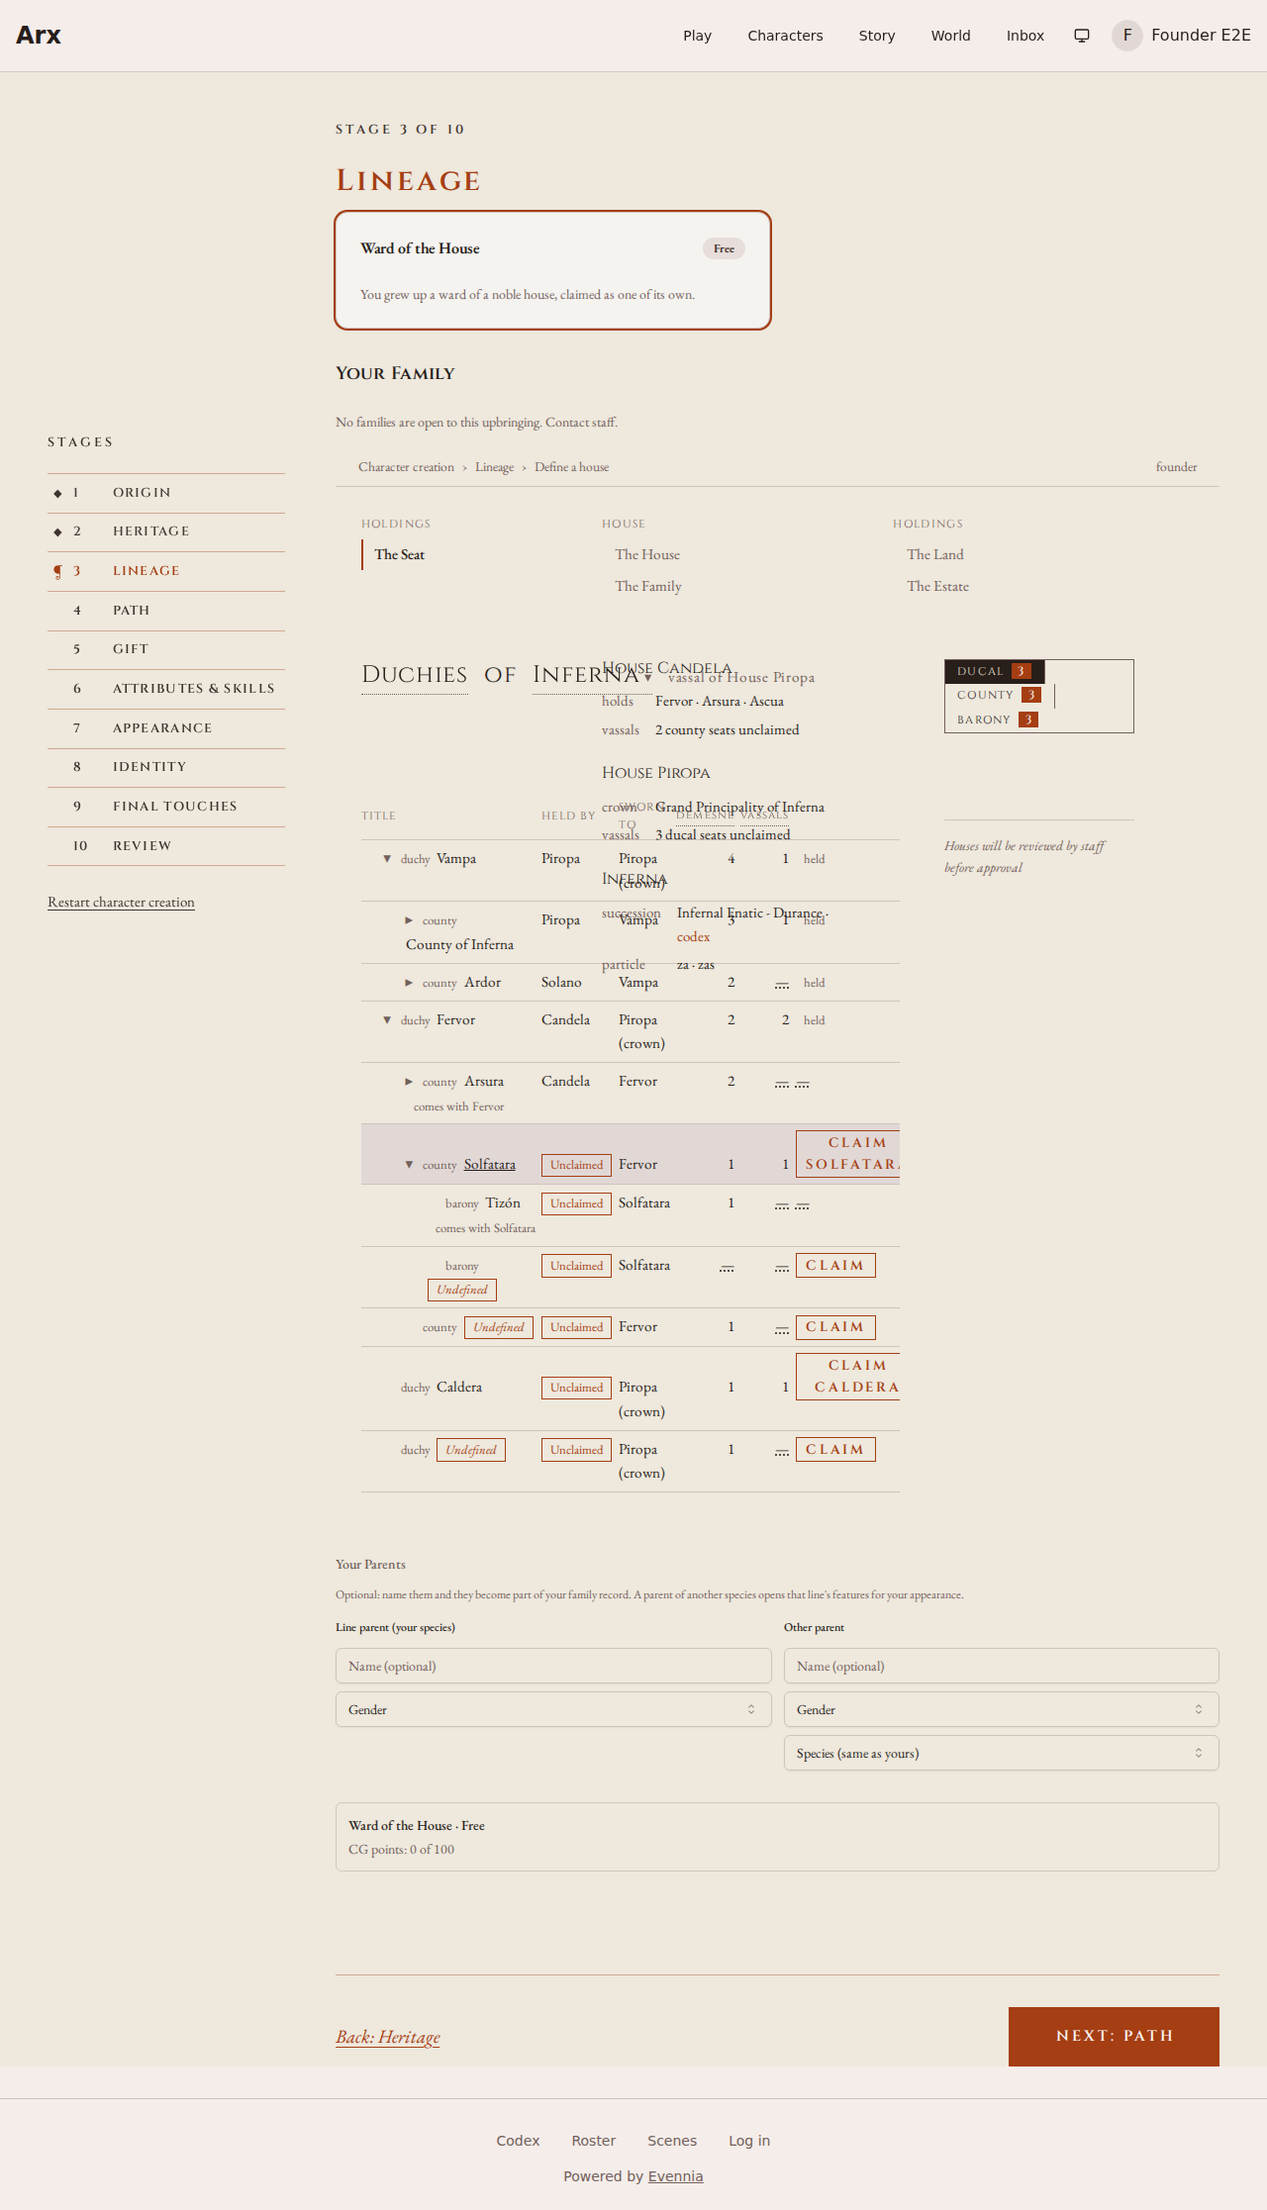
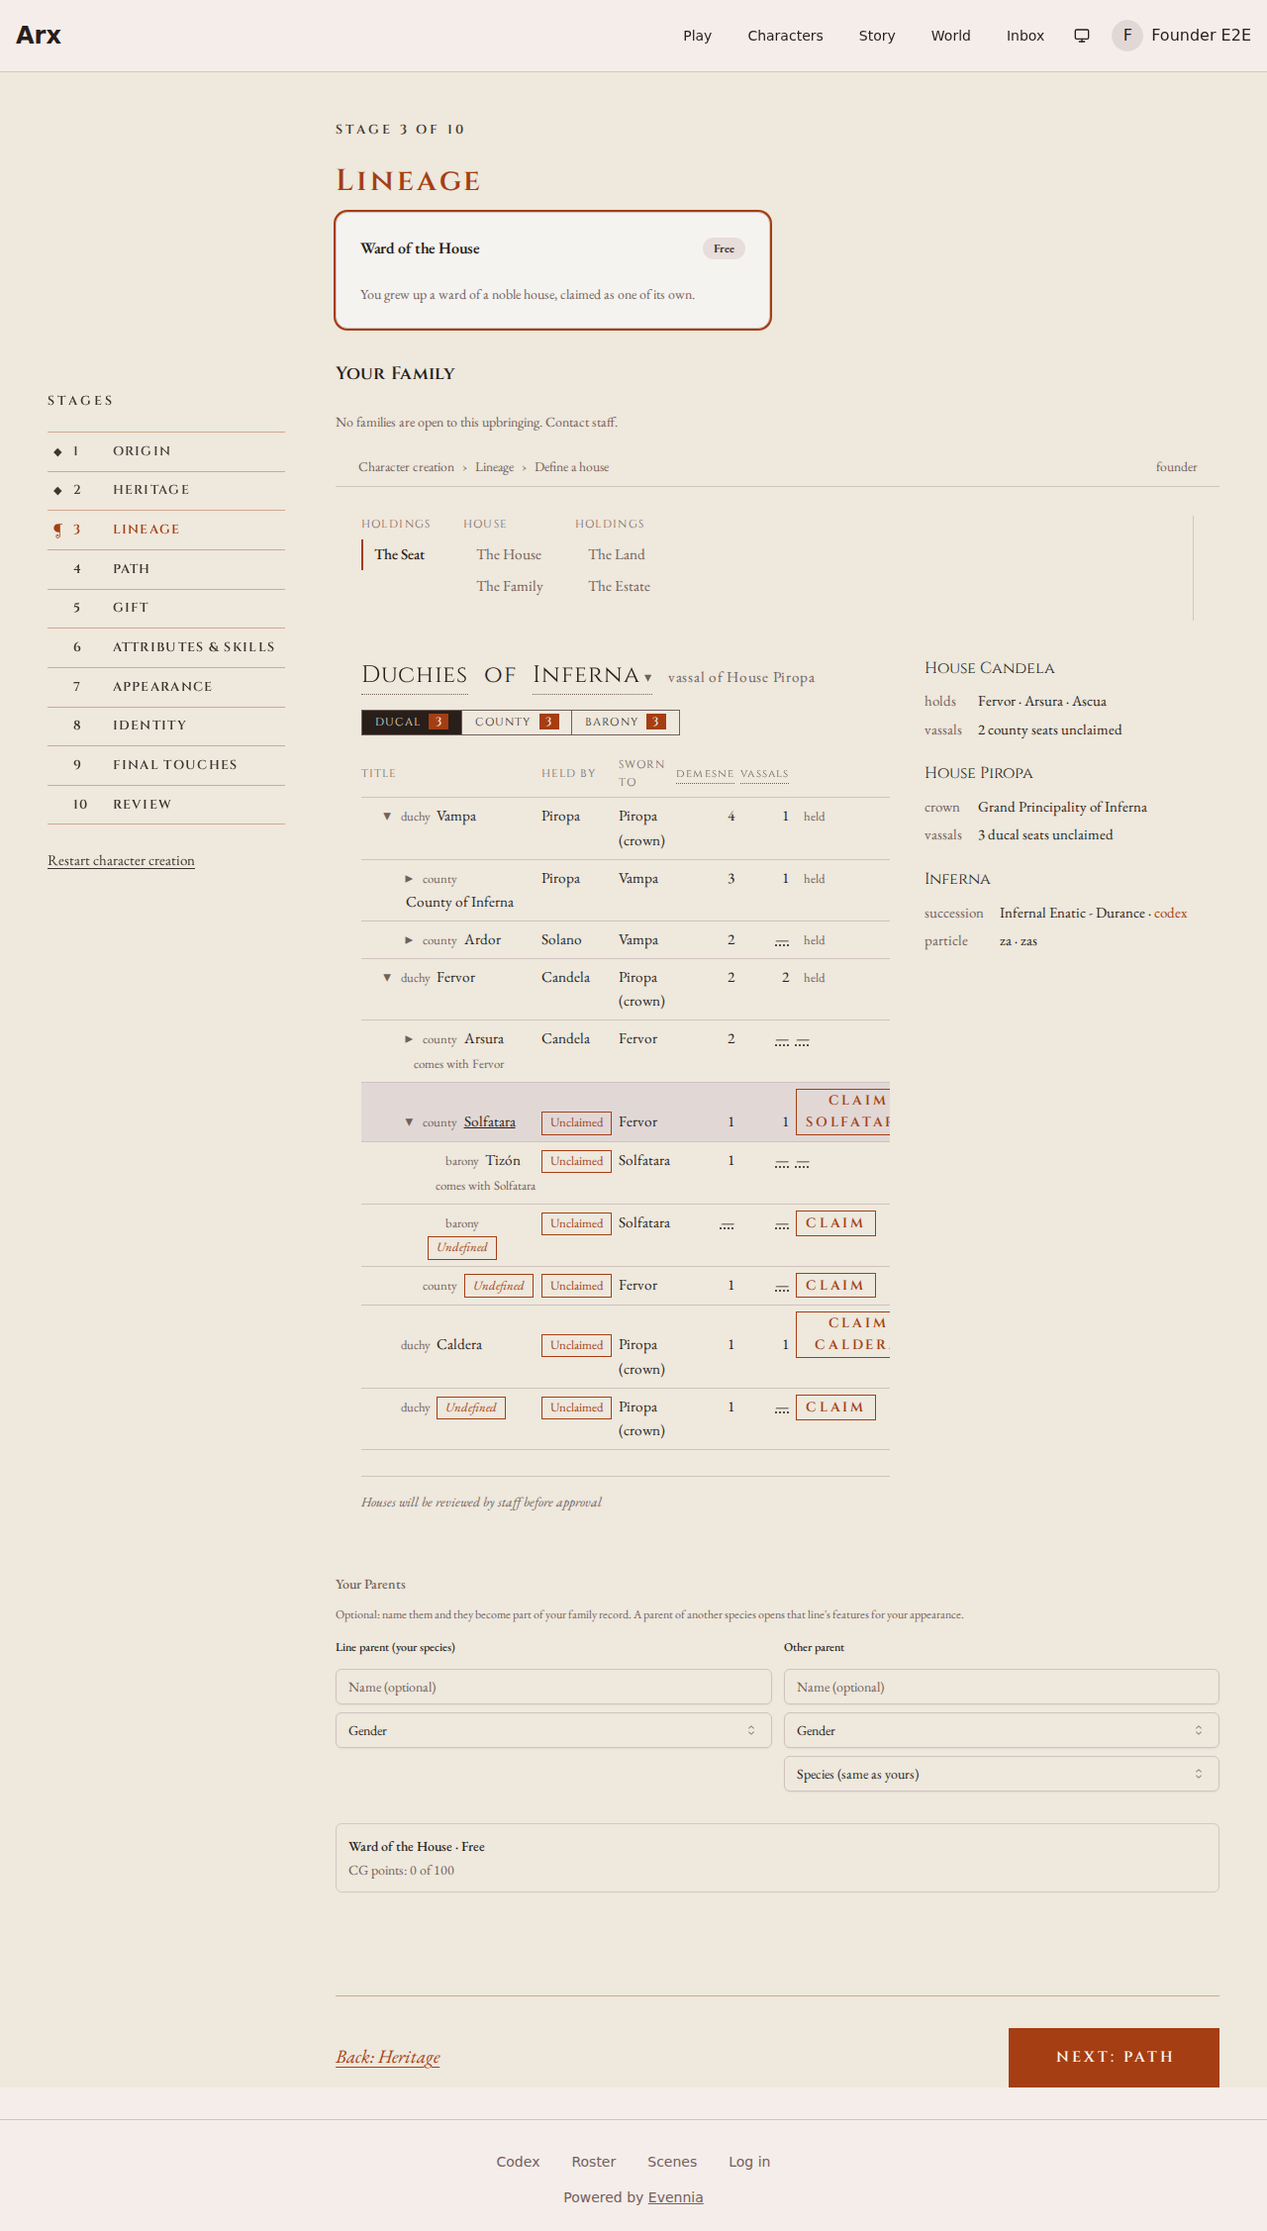
Review evidence: Almanach screens re-rendered with real clicks after the founder fixes (#3983)

diff --git a/frontend/e2e/evidence/almanach-3983.spec.ts b/frontend/e2e/evidence/almanach-3983.spec.ts
@@ -6,7 +6,6 @@ import { test, expect, type Locator, type Page } from '@playwright/test';
 import {
   ALL_HOUSES,
   CHARTER,
-  FERVOR,
   GENDERS,
   LAND_SHAPES,
   PIROPA_HOUSE_ID,
@@ -15,7 +14,7 @@ import {
   buildLadderRows,
   buildPiropaDocument,
 } from './fixtures/inferna';
-import { CLAIMABLE_TITLES, DRAFT_ID, FERVOR_TEMPLATE_ID, buildDraft } from './fixtures/founder';
+import { CLAIMABLE_TITLES, DRAFT_ID, buildDraft } from './fixtures/founder';
 
 /**
  * Review evidence for the Almanach de Catenys (#3983): renders every
@@ -94,26 +93,16 @@ async function assertSavebarNote(page: Page, note: string): Promise<void> {
 }
 
 /**
- * App finding (see README "Findings for the reviewer"): the founder-
- * mounted Almanach's `.almanac` grid column carrying `main.chapter`
- * measures narrower than its content at 1280px, so `aside.record` (or one
- * of its `<li>`s) sits on top of controls near the chapter's own trailing
- * edge — confirmed on `SeatPicker`'s Claim column (F-I/F-II) and
- * `FamilyChapter`'s "add" doors (F-III onward). A normal `click()` still
- * works wherever nothing overlaps; only where it doesn't does this fall
- * back to `dispatchEvent('click')` (fires the DOM click directly on the
- * target, no coordinate hit-testing) so the founder journey's own
- * interactions can still be exercised and the screens past the overlap
- * captured, per instruction: don't fix the app, record and continue.
+ * Every interaction in the founder journey is a real pointer click with
+ * Playwright's actionability checks. The first evidence run found two app
+ * defects here (the spread overflowing into the record rail, and a claim that
+ * lost its title and realm); both were fixed in 0b43bf647, and this harness
+ * no longer works around either.
  */
 async function safeClick(locator: Locator): Promise<void> {
-  // A real `click()` attempt that fails partway (mousedown lands on the
-  // overlapping `aside.record`, per the finding above) leaves the page in
-  // a state where even a follow-up `dispatchEvent('click')` on the correct
-  // target then hangs too — confirmed empirically. Going straight to
-  // `dispatchEvent` (fires the DOM click directly on the target, no mouse
-  // simulation, no actionability wait) avoids that poisoning outright.
-  await locator.dispatchEvent('click');
+  // A real pointer click with Playwright's actionability checks: the spread
+  // now sizes to its container (0b43bf647), so nothing overlaps a control.
+  await locator.click();
 }
 
 const STAFF_CHARACTER = {
@@ -461,60 +450,12 @@ async function gotoDefineHouse(page: Page): Promise<void> {
   await expect(page.getByText('Define a house')).toBeVisible();
 }
 
-/**
- * App finding (see README "Findings for the reviewer"): `FounderAlmanach`'s
- * `handleClaim` (`src/almanach/founder/FounderAlmanach.tsx`) calls
- * `set('title_id', …)`, `set('realm_id', …)`, `set('template_id', …)` back
- * to back — each `set` call's own `persist({ ...draft, [k]: v })`
- * (`founderDraft.ts`) spreads the SAME stale `draft` object captured when
- * `handleClaim` started, so only the LAST call's field survives; a real
- * click on "Claim Fervor" leaves `title_id`/`realm_id` reset to `null` in
- * `localStorage`, and `FounderAlmanach`'s own `template` lookup
- * (`titles.find((t) => t.id === fd.title_id)`) then permanently fails,
- * stranding the House chapter on `<p class="meta">Loading…</p>` forever —
- * confirmed by reading `localStorage['almanach-founder-900']` right after a
- * real click: `{"title_id":null,"realm_id":null,"template_id":950,...}`.
- * This is independent of, and in addition to, the S-II/F-I finding that
- * `aside.record` also overlaps the Claim button's own click target at
- * 1280px — even a click that lands cleanly still corrupts the draft.
- *
- * Neither is a harness problem, and the harness doesn't fix either: this
- * seeds the SAME `localStorage` key `handleClaim` writes to with the state
- * a *successful* claim should produce, so the House/Family/Land/Estate/
- * Record chapters — which read only the persisted draft, never how it got
- * there — can still be rendered for real and screenshotted. This is the
- * app's own declared persistence channel (`useFounderDraft`), the same
- * kind of input the route fixtures already provide; no component or route
- * behavior is touched.
- */
-async function seedClaimedFervorDraft(page: Page): Promise<void> {
-  const seeded = {
-    realm_id: REALM_ID,
-    title_id: FERVOR,
-    template_id: FERVOR_TEMPLATE_ID,
-    house_name: '',
-    words: '',
-    colors: '',
-    sigil_description: '',
-    backstory: '',
-    aspect_picks: {},
-    principles: {},
-    founder_relation: 'head',
-    founder_is_heir: true,
-    kin: [],
-    lands: {},
-    estate_name: '',
-    estate_description: '',
-  };
-  await page.addInitScript(({ key, value }) => window.localStorage.setItem(key, value), {
-    key: `almanach-founder-${DRAFT_ID}`,
-    value: JSON.stringify(seeded),
-  });
-}
-
 async function claimFervor(page: Page): Promise<void> {
-  await seedClaimedFervorDraft(page);
+  // The real gesture: open Define a house and click Claim on the duchy; the
+  // House chapter must follow (0b43bf647 made the claim persist all three
+  // fields together).
   await gotoDefineHouse(page);
+  await page.getByRole('button', { name: 'Claim Fervor' }).click();
   await expect(page.locator('#founder-house-name')).toBeVisible();
 }
 

diff --git a/frontend/e2e/almanach-founder.spec.ts b/frontend/e2e/almanach-founder.spec.ts
@@ -19,23 +19,12 @@ import { test, expect, type Locator, type Route } from '@playwright/test';
  */
 
 /**
- * #3983 evidence-harness finding (docs/reviews/almanach-3983/README.md):
- * the founder-mounted Almanach's `.almanac` grid column carrying
- * `main.chapter` measures narrower than its content at this viewport, so
- * `aside.record` (or one of its `<li>`s) sits on top of controls near the
- * chapter's own trailing edge — confirmed on `SeatPicker`'s Claim column
- * and on `FamilyChapter`'s "add" doors/Next buttons throughout this
- * journey. A real `click()` that fails partway (mousedown lands on the
- * overlapping aside) leaves the page in a state where even a follow-up
- * `dispatchEvent('click')` on the correct target then hangs too —
- * confirmed empirically — so every interactive click in this journey goes
- * straight to `dispatchEvent('click')` (fires the DOM click directly on
- * the target, no mouse simulation, no actionability wait) rather than
- * trying a real click first. Not a fix for the app; the defect is filed,
- * not patched.
+ * Every interaction is a real pointer click with Playwright's actionability
+ * checks; the overlap and the lost-claim defects the first evidence run found
+ * were fixed in 0b43bf647.
  */
 async function safeClick(locator: Locator): Promise<void> {
-  await locator.dispatchEvent('click');
+  await locator.click();
 }
 
 const DRAFT_ID = 501;
@@ -479,47 +468,6 @@ test('a founder claims the demo duchy and submits a house claim', async ({ page 
   const errors: string[] = [];
   page.on('pageerror', (error) => errors.push(error.message));
 
-  // #3983 evidence-harness findings (docs/reviews/almanach-3983/README.md,
-  // "Findings for the reviewer" — filed as a bug, not fixed here):
-  // 1) at this viewport `aside.record` overlaps `SeatPicker`'s trailing
-  //    Claim column, so a real click on "Claim <duchy>" never reaches the
-  //    button (Playwright: "aside.record intercepts pointer events").
-  // 2) `FounderAlmanach.handleClaim` calls `set('title_id', …)`,
-  //    `set('realm_id', …)`, `set('template_id', …)` back to back; each
-  //    `set`'s own `persist({ ...draft, [k]: v })` spreads the SAME
-  //    pre-claim `draft` snapshot, so only the LAST call's field survives —
-  //    `title_id`/`realm_id` end up back at `null` even when the click
-  //    itself lands (confirmed via `dispatchEvent('click')`, which bypasses
-  //    finding 1 but still hits this one), and the House chapter is
-  //    stranded forever on `<p class="meta">Loading…</p>`.
-  // Neither is a harness problem, and this spec doesn't fix either: it
-  // seeds the SAME `localStorage` key `useFounderDraft` reads
-  // (`almanach-founder-<draftId>`) with the state a *successful* claim on
-  // the demo duchy should produce, so the House-through-Record chapters —
-  // which read only the persisted draft, never how it got there — still
-  // exercise the real claim payload this test asserts on at the end.
-  await page.addInitScript(({ key, value }) => window.localStorage.setItem(key, value), {
-    key: `almanach-founder-${DRAFT_ID}`,
-    value: JSON.stringify({
-      realm_id: REALM_ID,
-      title_id: DUCHY_ID,
-      template_id: TEMPLATE.id,
-      house_name: '',
-      words: '',
-      colors: '',
-      sigil_description: '',
-      backstory: '',
-      aspect_picks: {},
-      principles: {},
-      founder_relation: 'head',
-      founder_is_heir: true,
-      kin: [],
-      lands: {},
-      estate_name: '',
-      estate_description: '',
-    }),
-  });
-
   await page.goto('/characters/create');
 
   // Lineage stage, claim path: the founder panel is already mounted
@@ -527,6 +475,9 @@ test('a founder claims the demo duchy and submits a house claim', async ({ page 
   // the House step (`FounderAlmanach`'s own `fd.title_id != null ? 'house'
   // : 'seat'` init), matching a founder who already claimed the duchy.
   await expect(page.getByText('Define a house')).toBeVisible();
+
+  // The Seat (plate F-I): claim the demo duchy for real; the House chapter follows.
+  await page.getByRole('button', { name: `Claim ${DUCHY_NAME}` }).click();
 
   // House chapter (plate F-II): name the house, a few stylings, the backstory.
   await expect(page.getByRole('heading', { name: /^House/ })).toBeVisible();

diff --git a/docs/reviews/almanach-3983/README.md b/docs/reviews/almanach-3983/README.md
@@ -6,8 +6,7 @@ Screenshots of the REAL built app (the app's own routes and components; only
 `frontend/e2e/evidence/almanach-3983.spec.ts`; fixtures:
 `frontend/e2e/evidence/fixtures/*.ts`.
 
-- Rendered commit: `6c33c584eaad1799f9e81702cbc3a00f08e96e6e` (author-phase commit,
-  frontend feature code at `fd261e971557274665785a1afe9d31f394c215b9`)
+- Rendered commit: `c7a86b6cee0af8bd6cd5749c95a5b80df25396a0` (the app as built for this run; the evidence commit sits on top of it)
 - Build command: `pnpm build` (from `frontend/`, with `src/.env` present)
 - Test command: `pnpm exec playwright test e2e/evidence/almanach-3983.spec.ts`
 - Playwright version: `^1.58.2` (`@playwright/test` in `frontend/package.json`)
@@ -94,65 +93,30 @@ texts, table headers where the leaf has a table, no console error) hold.
 
 ## Findings for the reviewer
 
-Two real, reproducible app defects were found while building this harness —
-neither is fixed here (per instruction); both blocked the founder claim flow
-and needed a harness-side workaround to still capture F-II through F-VI.
-Screenshots F-I onward show the first defect's visual symptom as-is (not
-touched up), since that is itself useful evidence.
+The first evidence run (346102934) found two app defects and captured the
+founder screens through harness workarounds. Both are fixed on the branch and
+this run has no workarounds: every interaction is a real pointer click with
+Playwright's actionability checks, and F-II onward follow a real "Claim Fervor"
+click rather than a seeded draft.
 
-1. **`aside.record` overlaps `main.chapter`'s own content in the
-   founder-mounted Almanach at 1280×800**, blocking real pointer clicks on
-   controls near the chapter's trailing/lower edge. First confirmed on
-   `SeatPicker`'s trailing "Claim" column (`FounderAlmanach.tsx` →
-   `SeatPicker.tsx`): Playwright's actionability check reports
-   `<aside class="record">…</aside> intercepts pointer events` and a real
-   `click()` on "Claim Fervor" times out. Measured with
-   `getComputedStyle`/`boundingBox()` on the F-II seat page: `.almanach
-   .almanac`'s own grid IS `display:grid` with the authored
-   `13rem minmax(0,1fr) 19rem` template, but at 1280px the middle
-   (`main.chapter`) track computes to only ~259px while its own content
-   (a 6-column ladder table including the new Claim column) is wider — the
-   table overflows the track boundary into the `aside.record` column
-   instead of staying clipped by its `.scroll` wrapper, so the two
-   visually and functionally overlap. The same overlap recurs on
-   `FamilyChapter`'s own "add" doors from F-III on (see `f3-built.png`'s
-   visible text collision between the founder's own panel and the
-   `RecordSoFar` rail). Screenshots `f1-built.png`, `f1-built-phone.png`,
-   `f1b-built.png` show this uncorrected. Harness workaround: every
-   founder-journey click goes through `dispatchEvent('click')` instead of
-   a real `click()` (see `safeClick` in both specs) — this still exercises
-   each chapter's own onClick handler, just without the mouse/hit-testing
-   step a real player's click would need and currently cannot complete.
-2. **`FounderAlmanach.handleClaim` loses `title_id`/`realm_id` on every
-   claim**, independent of finding 1 — confirmed by dispatching the Claim
-   click directly (bypassing finding 1 entirely) and reading
-   `localStorage['almanach-founder-<draftId>']` immediately after:
-   `{"title_id":null,"realm_id":null,"template_id":950,...}`. The handler
-   (`frontend/src/almanach/founder/FounderAlmanach.tsx`) calls
-   `set('title_id', row.title_id)`, `set('realm_id', effectiveRealmId)`,
-   `set('template_id', templateId)` back to back; `set`'s own
-   `persist({ ...draft, [k]: v })` (`founderDraft.ts`) spreads the SAME
-   `draft` object captured when `handleClaim` started, so each call
-   overwrites the PREVIOUS call's field back to its stale pre-claim value —
-   only the LAST `set()`'s field survives. With `title_id` reset to `null`,
-   `FounderAlmanach`'s own `title = titles.find((t) => t.id === fd.title_id)`
-   permanently fails and the House chapter is stranded forever on
-   `<p class="meta">Loading…</p>` — a real player who successfully clicks
-   "Claim" (finding 1 notwithstanding, e.g. on a wider viewport) still
-   cannot proceed past that point. This is 100% reproducible, not a race:
-   the stomping happens regardless of whether `useClaimableTitles()` has
-   resolved by click time. Harness workaround: F-II through F-VI seed
-   `localStorage`'s `almanach-founder-<draftId>` key directly (the same
-   channel `useFounderDraft` reads/writes) with the state a *successful*
-   claim on Fervor should have produced, so the House/Family/Land/Estate/
-   Record chapters — which read only the persisted draft, never how it got
-   there — can still be rendered and screenshotted for real. See
-   `seedClaimedFervorDraft` in `almanach-3983.spec.ts` and the equivalent
-   block in `almanach-founder.spec.ts`.
+1. The founder-mounted Almanach's `main.chapter` was being laid out by
+   character creation's own `.interview .chapter` grid (cg.css:317), which
+   pushed every field into a 12rem side column under `aside.record` and made
+   the rail intercept clicks. Fixed in `c7a86b6ce` (an interview-scoped reset
+   in `almanach.css`); the spread also now sizes to its container
+   (`0b43bf647`: two columns under 64rem, one under 44rem, grid children
+   `min-width: 0`).
+2. `FounderAlmanach.handleClaim` wrote title, realm and template back to back
+   and each write spread the draft captured when the handler started, so only
+   the last survived and the House chapter was stranded on "Loading". Fixed in
+   `0b43bf647` (`useFounderDraft` mutators build on a ref of the latest draft);
+   regression tests in `founderDraft.test.ts` and `FounderAlmanach.test.tsx`.
 
-Both are recorded here per the instruction not to fix the app during this
-pass; either is a strong candidate for its own follow-up issue given #2 is a
-complete, unconditional block on the founder claiming a house at all today.
+Inside character creation the founder Almanach renders as two columns (the
+contents rail as a strip above chapter | record) because the interview's
+reading column is narrower than three railed columns; the staff routes render
+the plates' three columns. That is a container-driven divergence from the
+founder plates' full-page mock, ruled acceptable in the Plan B ledger.
 
 ## Founder journey spec (Task 7)
 
@@ -167,10 +131,7 @@ timed out identically: `aside.record intercepts pointer events`). What changed:
   also hangs, so every click goes straight to `dispatchEvent` rather than
   trying a real click first.
 - Replaced the Seat-step "find and click Claim" sequence with a
-  `page.addInitScript` that seeds `localStorage['almanach-founder-501']`
-  with the state a successful claim on the demo duchy should produce
-  (Finding 2 above), since `dispatchEvent`-ing the real Claim click still
-  hits the same `title_id`/`realm_id`-loss bug. The test still asserts
+  `page.addInitScript` that claims the demo duchy with a real click on its Claim button. The test still asserts
   "Define a house" is visible (the crumb bar renders it regardless of
   step) and now starts directly on the House chapter, matching a founder
   who already claimed the duchy.
